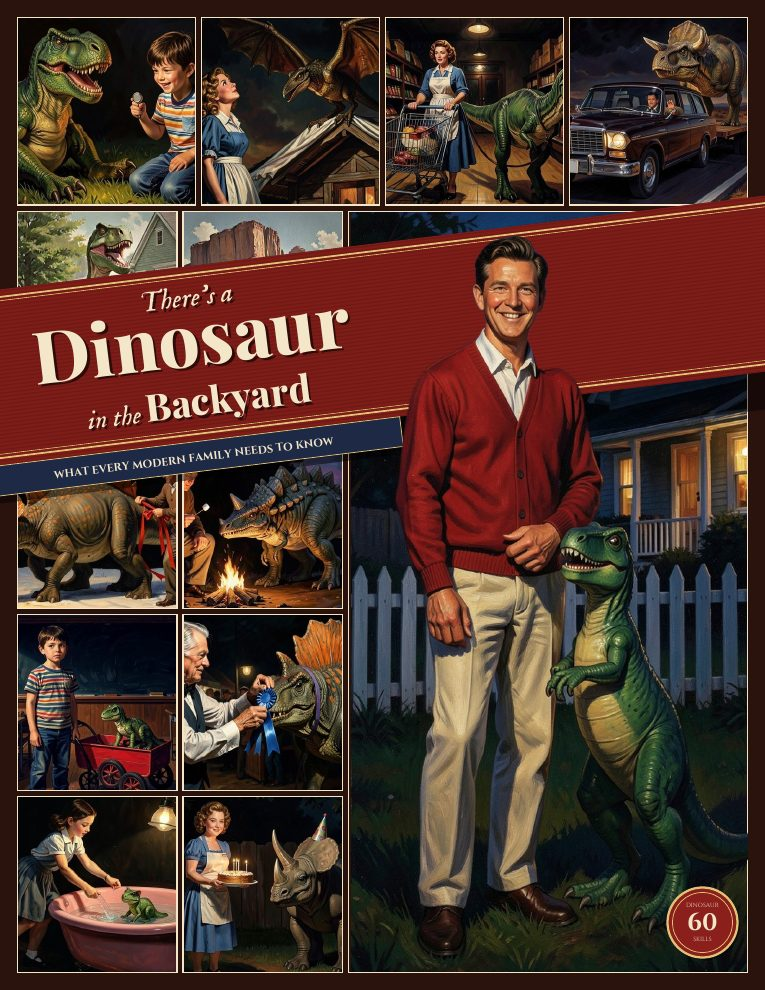
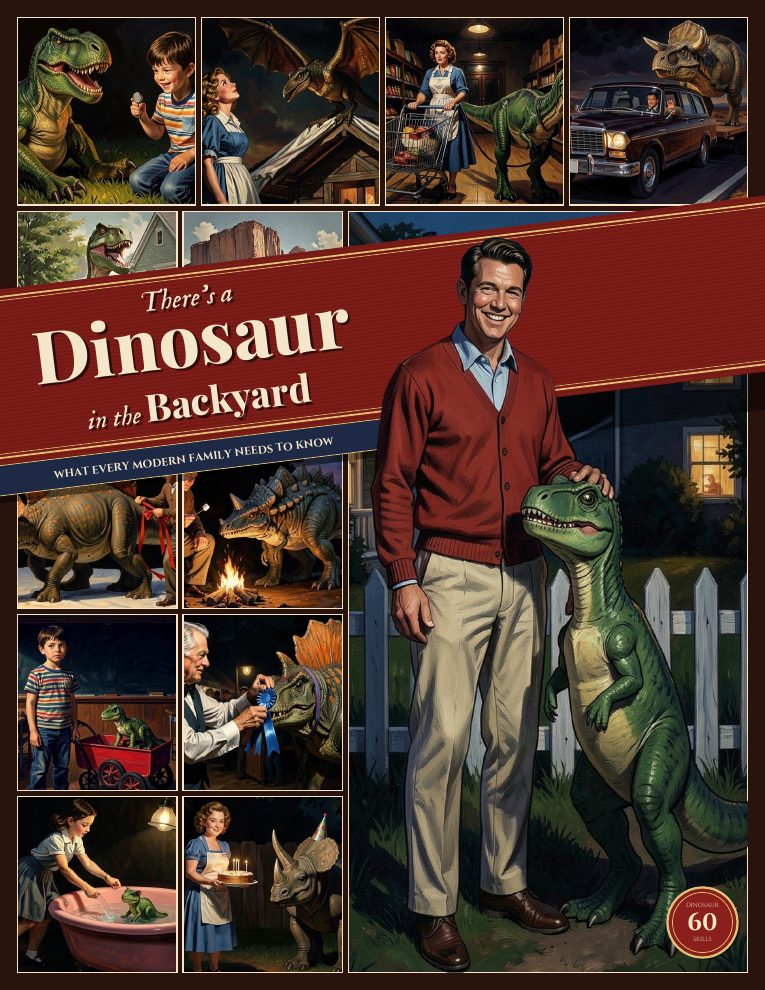
Dinosaur cover: dad petting the little dinosaur
Claude-Session: https://claude.ai/code/session_01AdSuguJxLvMHCHDaxzqfUy

Changed region(s): [[0.451, 0.2121, 0.9922, 1.0], [0.9621, 0.9091, 0.9922, 0.9394], [0.451, 0.8182, 0.481, 0.8485]]

diff --git a/dinosaur-backyard/index.html b/dinosaur-backyard/index.html
@@ -44,7 +44,7 @@
       </div>
     </div>
     <div class="cover-wrap">
-      <img src="img/page1.jpg" alt="Front cover of There&rsquo;s a Dinosaur in the Backyard: a painted 1950s father in a red cardigan with a small friendly green dinosaur by the picket fence, at dusk, beside tiled scenes of the family and their dinosaurs" width="900" height="1165">
+      <img src="img/page1.jpg" alt="Front cover of There&rsquo;s a Dinosaur in the Backyard: a painted 1950s father in a red cardigan petting a small friendly green dinosaur by the picket fence, at dusk, beside tiled scenes of the family and their dinosaurs" width="900" height="1165">
       <div class="seal" aria-hidden="true">Dinosaur<b>60</b>Skills</div>
     </div>
   </div>
